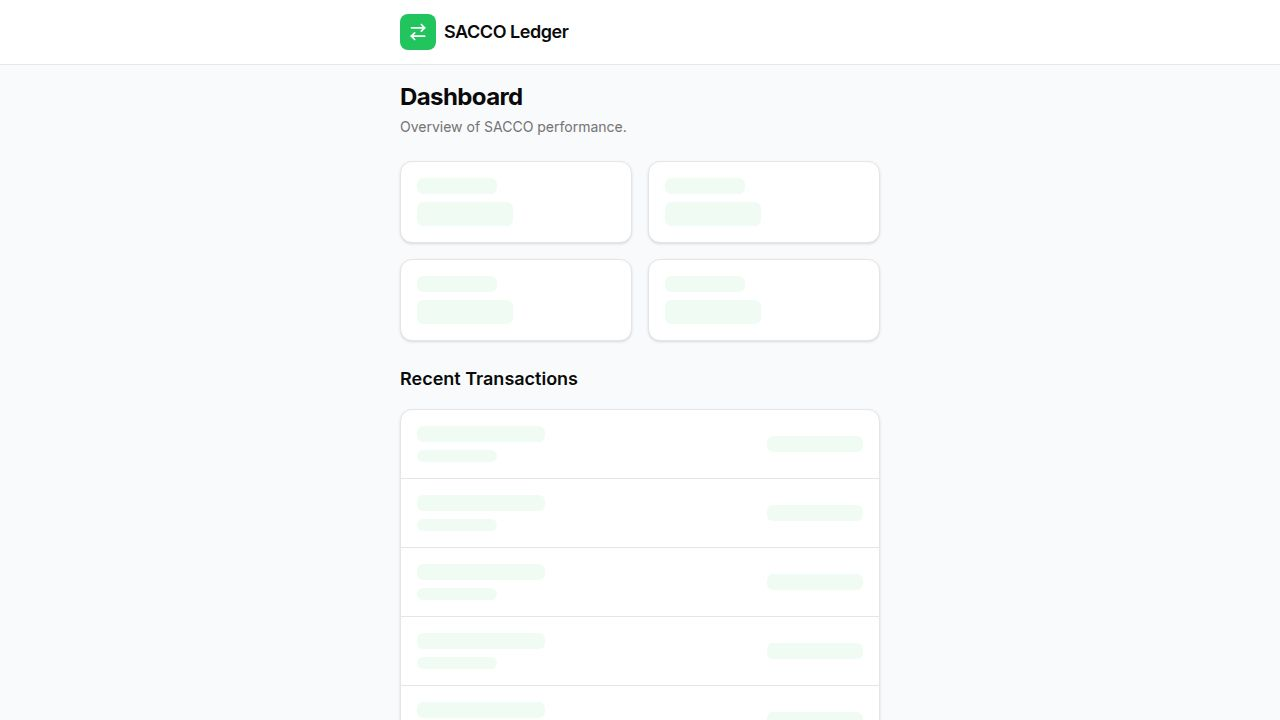
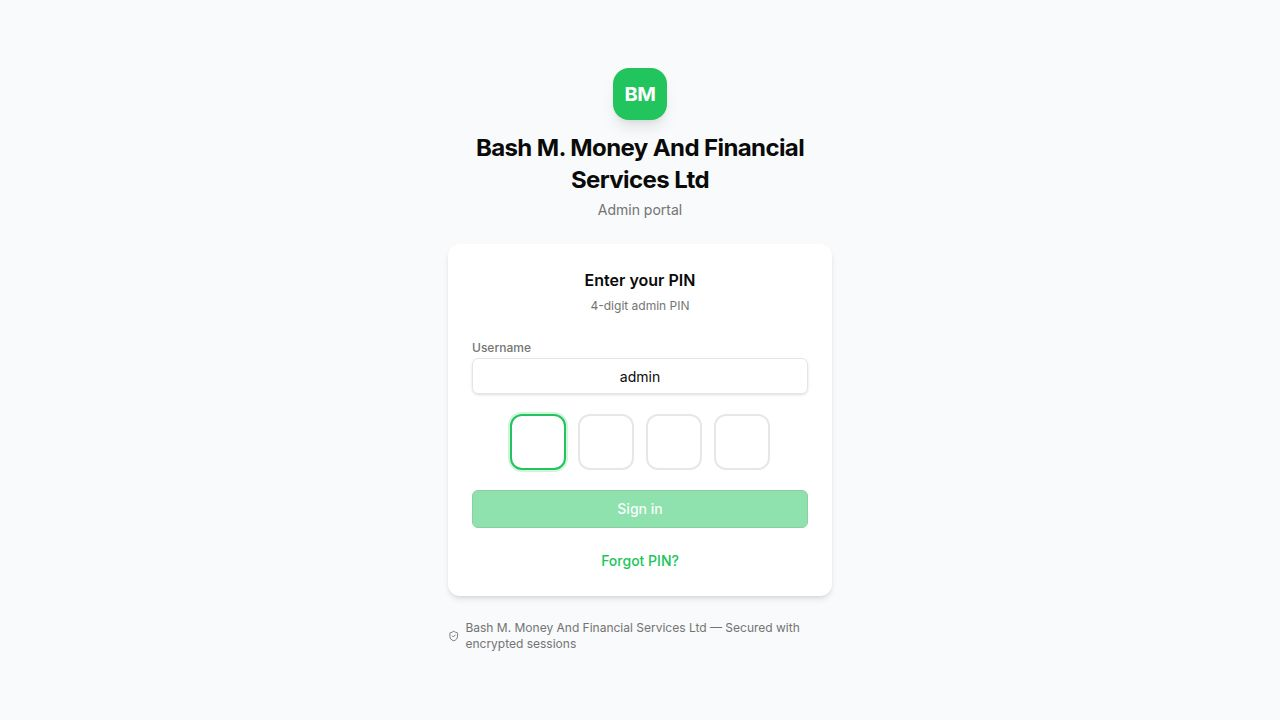
Update app name and branding across all platforms
Rename the application to "Bash M. Money And Financial Services Ltd" and update branding elements, including the account number prefix, within the API and front-end applications.

Replit-Commit-Author: Agent
Replit-Commit-Session-Id: c7e796f2-7fbc-4ff8-b101-0ab4a6c2f5c6
Replit-Commit-Checkpoint-Type: full_checkpoint
Replit-Commit-Event-Id: 654f33b9-850f-4e12-9df8-b5b9ca56c354
Replit-Commit-Screenshot-Url: https://storage.googleapis.com/screenshot-production-us-central1/14d8a897-3bcd-46f4-8597-b1a12e73d08b/c7e796f2-7fbc-4ff8-b101-0ab4a6c2f5c6/GQh1uoJ
Replit-Helium-Checkpoint-Created: true

diff --git a/artifacts/sacco-app/src/pages/forgot-pin.tsx b/artifacts/sacco-app/src/pages/forgot-pin.tsx
@@ -103,9 +103,9 @@ export function ForgotPin() {
         {/* Logo */}
         <div className="flex flex-col items-center gap-3 text-center">
           <div className="bg-primary text-white p-3 rounded-2xl shadow-lg">
-            <span className="text-white font-black text-xl tracking-tight">NJF</span>
+            <span className="text-white font-black text-xl tracking-tight">BM</span>
           </div>
-          <h1 className="text-2xl font-black tracking-tight">NJF Ledger</h1>
+          <h1 className="text-2xl font-black tracking-tight">Bash M. Money And Financial Services Ltd</h1>
         </div>
 
         <Card className="shadow-md border-0">
@@ -118,7 +118,7 @@ export function ForgotPin() {
                   <span className="font-semibold text-base">Forgot PIN</span>
                 </div>
                 <p className="text-xs text-muted-foreground">
-                  Enter your registered phone number. NJF Ledger will send a verification code.
+                  Enter your registered phone number. Bash M. Money will send a verification code.
                 </p>
               </CardHeader>
               <CardContent className="px-6 pt-2 pb-6">
@@ -231,7 +231,7 @@ export function ForgotPin() {
             <>
               <CardHeader className="pb-2 pt-6 px-6 text-center">
                 <span className="font-semibold text-base">Create new PIN</span>
-                <p className="text-xs text-muted-foreground mt-1">Choose a 4-digit PIN for NJF Ledger</p>
+                <p className="text-xs text-muted-foreground mt-1">Choose a 4-digit PIN for Bash M. Money</p>
               </CardHeader>
               <CardContent className="px-6 pt-3 pb-6">
                 <form onSubmit={handleResetPin} className="space-y-5">
@@ -284,7 +284,7 @@ export function ForgotPin() {
               </div>
               <h2 className="text-lg font-bold">PIN updated!</h2>
               <p className="text-sm text-muted-foreground">
-                Your NJF Ledger PIN has been changed successfully. You can now sign in with your new PIN.
+                Your Bash M. Money PIN has been changed successfully. You can now sign in with your new PIN.
               </p>
               <Button className="w-full" onClick={() => navigate("/login")}>
                 Go to sign in

diff --git a/artifacts/sacco-app/src/lib/pdf-export.ts b/artifacts/sacco-app/src/lib/pdf-export.ts
@@ -78,7 +78,7 @@ export function exportMemberStatementPDF(profile: MemberProfile, ledger: MemberL
   doc.setTextColor(...WHITE);
   doc.setFontSize(14);
   doc.setFont("helvetica", "bold");
-  doc.text("NJF Ledger", margin + 14, 10);
+  doc.text("Bash M. Money And Financial Services Ltd", margin + 14, 10);
   doc.setFontSize(8);
   doc.setFont("helvetica", "normal");
   doc.text("Member Account Statement", margin + 14, 16);
@@ -251,12 +251,12 @@ export function exportMemberStatementPDF(profile: MemberProfile, ledger: MemberL
     doc.setFont("helvetica", "normal");
     doc.setFontSize(7);
     doc.setTextColor(...MUTED);
-    doc.text("NJF Ledger — Confidential Member Statement", margin, pageH - 7);
+    doc.text("Bash M. Money And Financial Services Ltd — Confidential Member Statement", margin, pageH - 7);
     doc.text(`Page ${i} of ${pageCount}`, pageW - margin, pageH - 7, { align: "right" });
   }
 
   // ── Save ─────────────────────────────────────────────────────────────────────
   const safeName = profile.name.replace(/\s+/g, "_").toLowerCase();
   const date = new Date().toISOString().split("T")[0];
-  doc.save(`NJF_Statement_${safeName}_${date}.pdf`);
+  doc.save(`BashM_Statement_${safeName}_${date}.pdf`);
 }

diff --git a/artifacts/sacco-app/src/pages/login.tsx b/artifacts/sacco-app/src/pages/login.tsx
@@ -41,10 +41,10 @@ export function Login() {
         {/* Logo */}
         <div className="flex flex-col items-center gap-3 text-center">
           <div className="bg-primary text-white p-3 rounded-2xl shadow-lg">
-            <span className="text-white font-black text-xl tracking-tight">NJF</span>
+            <span className="text-white font-black text-xl tracking-tight">BM</span>
           </div>
           <div>
-            <h1 className="text-2xl font-black tracking-tight">NJF Ledger</h1>
+            <h1 className="text-2xl font-black tracking-tight">Bash M. Money And Financial Services Ltd</h1>
             <p className="text-sm text-muted-foreground mt-1">Admin portal</p>
           </div>
         </div>
@@ -108,7 +108,7 @@ export function Login() {
 
         <div className="flex items-center justify-center gap-1.5 text-xs text-muted-foreground">
           <ShieldCheck className="w-3.5 h-3.5" />
-          <span>NJF Ledger — Secured with encrypted sessions</span>
+          <span>Bash M. Money And Financial Services Ltd — Secured with encrypted sessions</span>
         </div>
       </div>
     </div>

diff --git a/artifacts/sacco-app/src/pages/member-login.tsx b/artifacts/sacco-app/src/pages/member-login.tsx
@@ -77,10 +77,10 @@ export function MemberLogin() {
 
         <div className="flex flex-col items-center gap-3 text-center">
           <div className="bg-primary text-white p-3 rounded-2xl shadow-lg">
-            <span className="text-white font-black text-xl tracking-tight">NJF</span>
+            <span className="text-white font-black text-xl tracking-tight">BM</span>
           </div>
           <div>
-            <h1 className="text-2xl font-black tracking-tight">NJF Ledger</h1>
+            <h1 className="text-2xl font-black tracking-tight">Bash M. Money And Financial Services Ltd</h1>
             <p className="text-sm text-muted-foreground mt-1">Member portal</p>
           </div>
         </div>
@@ -186,7 +186,7 @@ export function MemberLogin() {
 
         <div className="flex items-center justify-center gap-1.5 text-xs text-muted-foreground">
           <ShieldCheck className="w-3.5 h-3.5" />
-          <span>NJF Ledger — Secured with encrypted sessions</span>
+          <span>Bash M. Money And Financial Services Ltd — Secured with encrypted sessions</span>
         </div>
       </div>
     </div>

diff --git a/artifacts/api-server/src/lib/notify.ts b/artifacts/api-server/src/lib/notify.ts
@@ -31,7 +31,7 @@ export async function notifyMemberTransaction(params: {
   const balStr = formatAmount(runningBalance);
 
   const message = [
-    `NJF Ledger: ${typeName} of ${amtStr} ${verb} on your account (Ref: ${transactionRef}).`,
+    `Bash M. Money: ${typeName} of ${amtStr} ${verb} on your account (Ref: ${transactionRef}).`,
     `New balance: ${balStr}.`,
     notes ? `Note: ${notes}` : null,
     `For queries, contact your SACCO manager.`,
@@ -50,7 +50,7 @@ export async function notifyMemberTransaction(params: {
 
   logger.info({ memberId, phone: member.phone, transactionRef }, "📲 [SIMULATED WHATSAPP] Transaction alert sent");
   console.log(`\n╔══════════════════════════════════════════════╗`);
-  console.log(`║  📲  NJF Ledger — WhatsApp Notification       ║`);
+  console.log(`║  📲  Bash M. Money — WhatsApp Notification    ║`);
   console.log(`╠══════════════════════════════════════════════╣`);
   console.log(`║  To:   ${member.phone.padEnd(37)}║`);
   console.log(`║  Name: ${member.name.substring(0, 37).padEnd(37)}║`);

diff --git a/artifacts/sacco-app/src/components/layout.tsx b/artifacts/sacco-app/src/components/layout.tsx
@@ -33,9 +33,9 @@ export function Layout({ children }: LayoutProps) {
         <div className="flex items-center justify-between px-4 h-16 max-w-lg mx-auto w-full">
           <div className="flex items-center gap-2">
             <div className="bg-primary text-white px-2.5 py-1.5 rounded-lg">
-              <span className="font-black text-sm tracking-tight">NJF</span>
+              <span className="font-black text-sm tracking-tight">BM</span>
             </div>
-            <span className="font-black text-lg tracking-tight">NJF Ledger</span>
+            <span className="font-black text-lg tracking-tight">Bash M. Money</span>
           </div>
 
           {user && (

diff --git a/artifacts/api-server/src/routes/members.ts b/artifacts/api-server/src/routes/members.ts
@@ -51,7 +51,7 @@ router.post("/members", requireAdmin, async (req, res) => {
     const year = new Date().getFullYear();
     const countRow = await db.select({ id: membersTable.id }).from(membersTable);
     const seq = String(countRow.length + 1).padStart(5, "0");
-    const accountNumber = `NJF-${year}-${seq}`;
+    const accountNumber = `BM-${year}-${seq}`;
 
     const [member] = await db
       .insert(membersTable)

diff --git a/artifacts/sacco-app/index.html b/artifacts/sacco-app/index.html
@@ -3,7 +3,7 @@
   <head>
     <meta charset="UTF-8" />
     <meta name="viewport" content="width=device-width, initial-scale=1.0, maximum-scale=1" />
-    <title>NJF Ledger</title>
+    <title>Bash M. Money And Financial Services Ltd</title>
     <link rel="icon" type="image/svg+xml" href="/favicon.svg" />
     <link rel="preconnect" href="https://fonts.googleapis.com">
     <link rel="preconnect" href="https://fonts.gstatic.com" crossorigin>